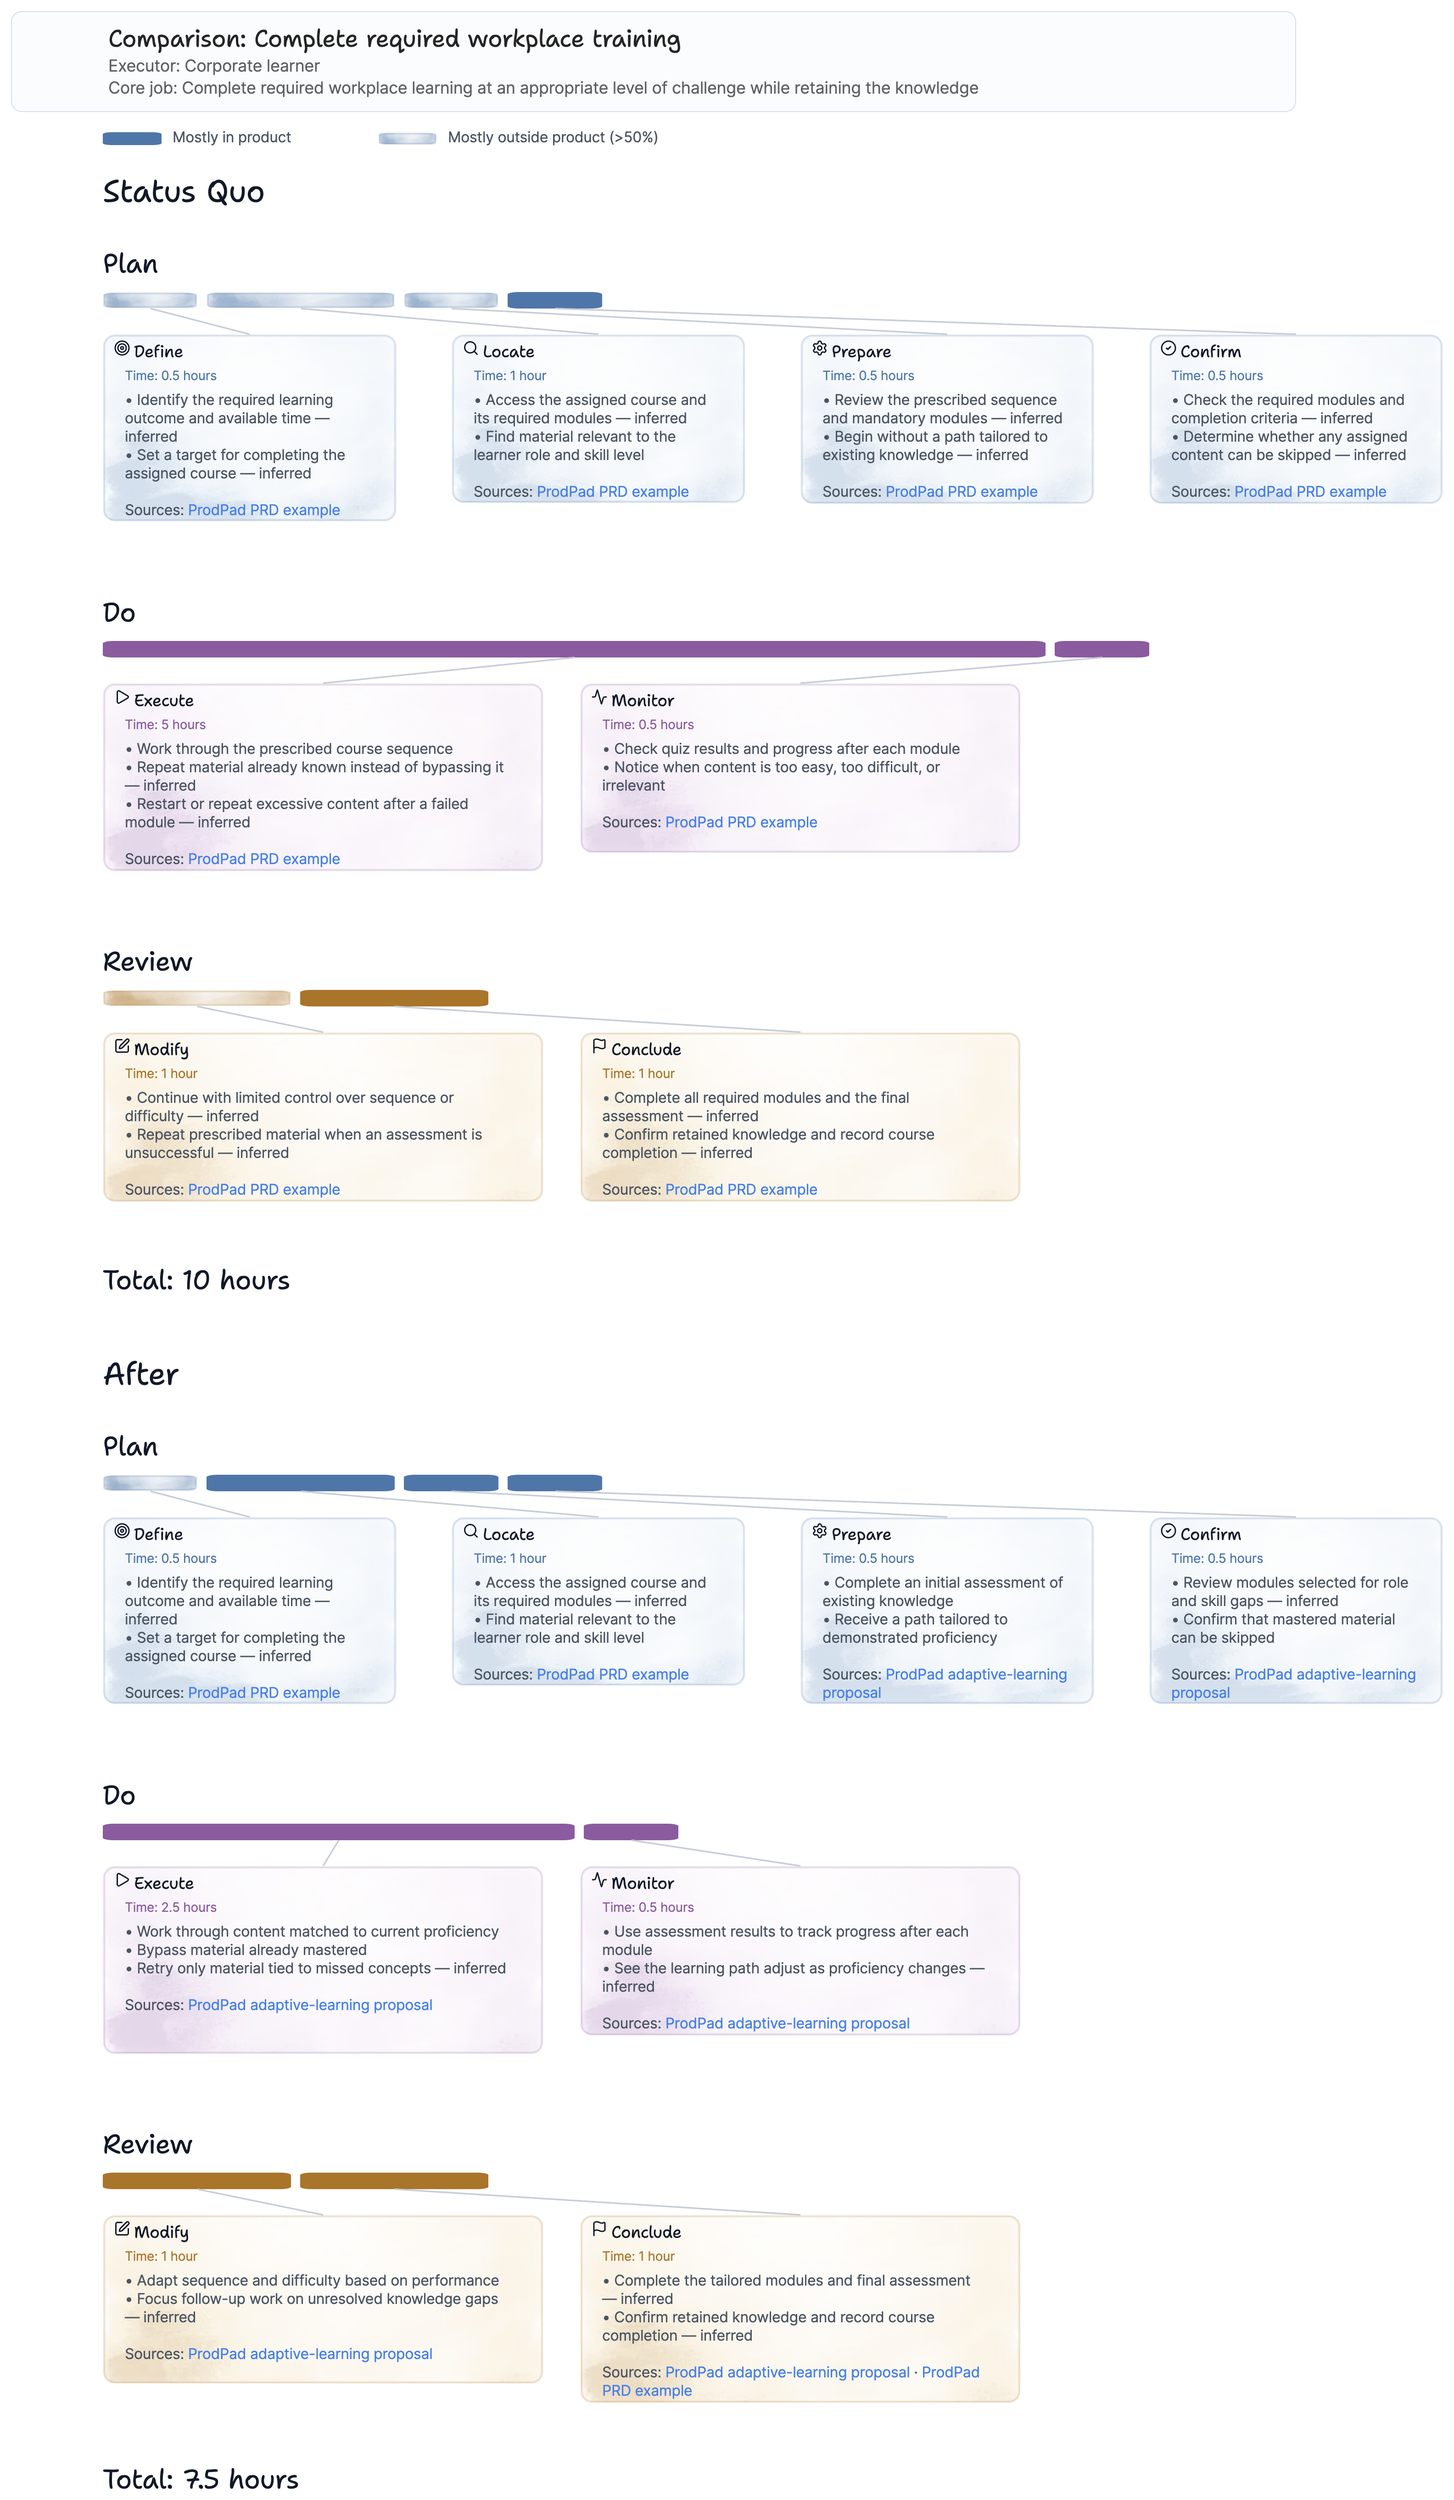
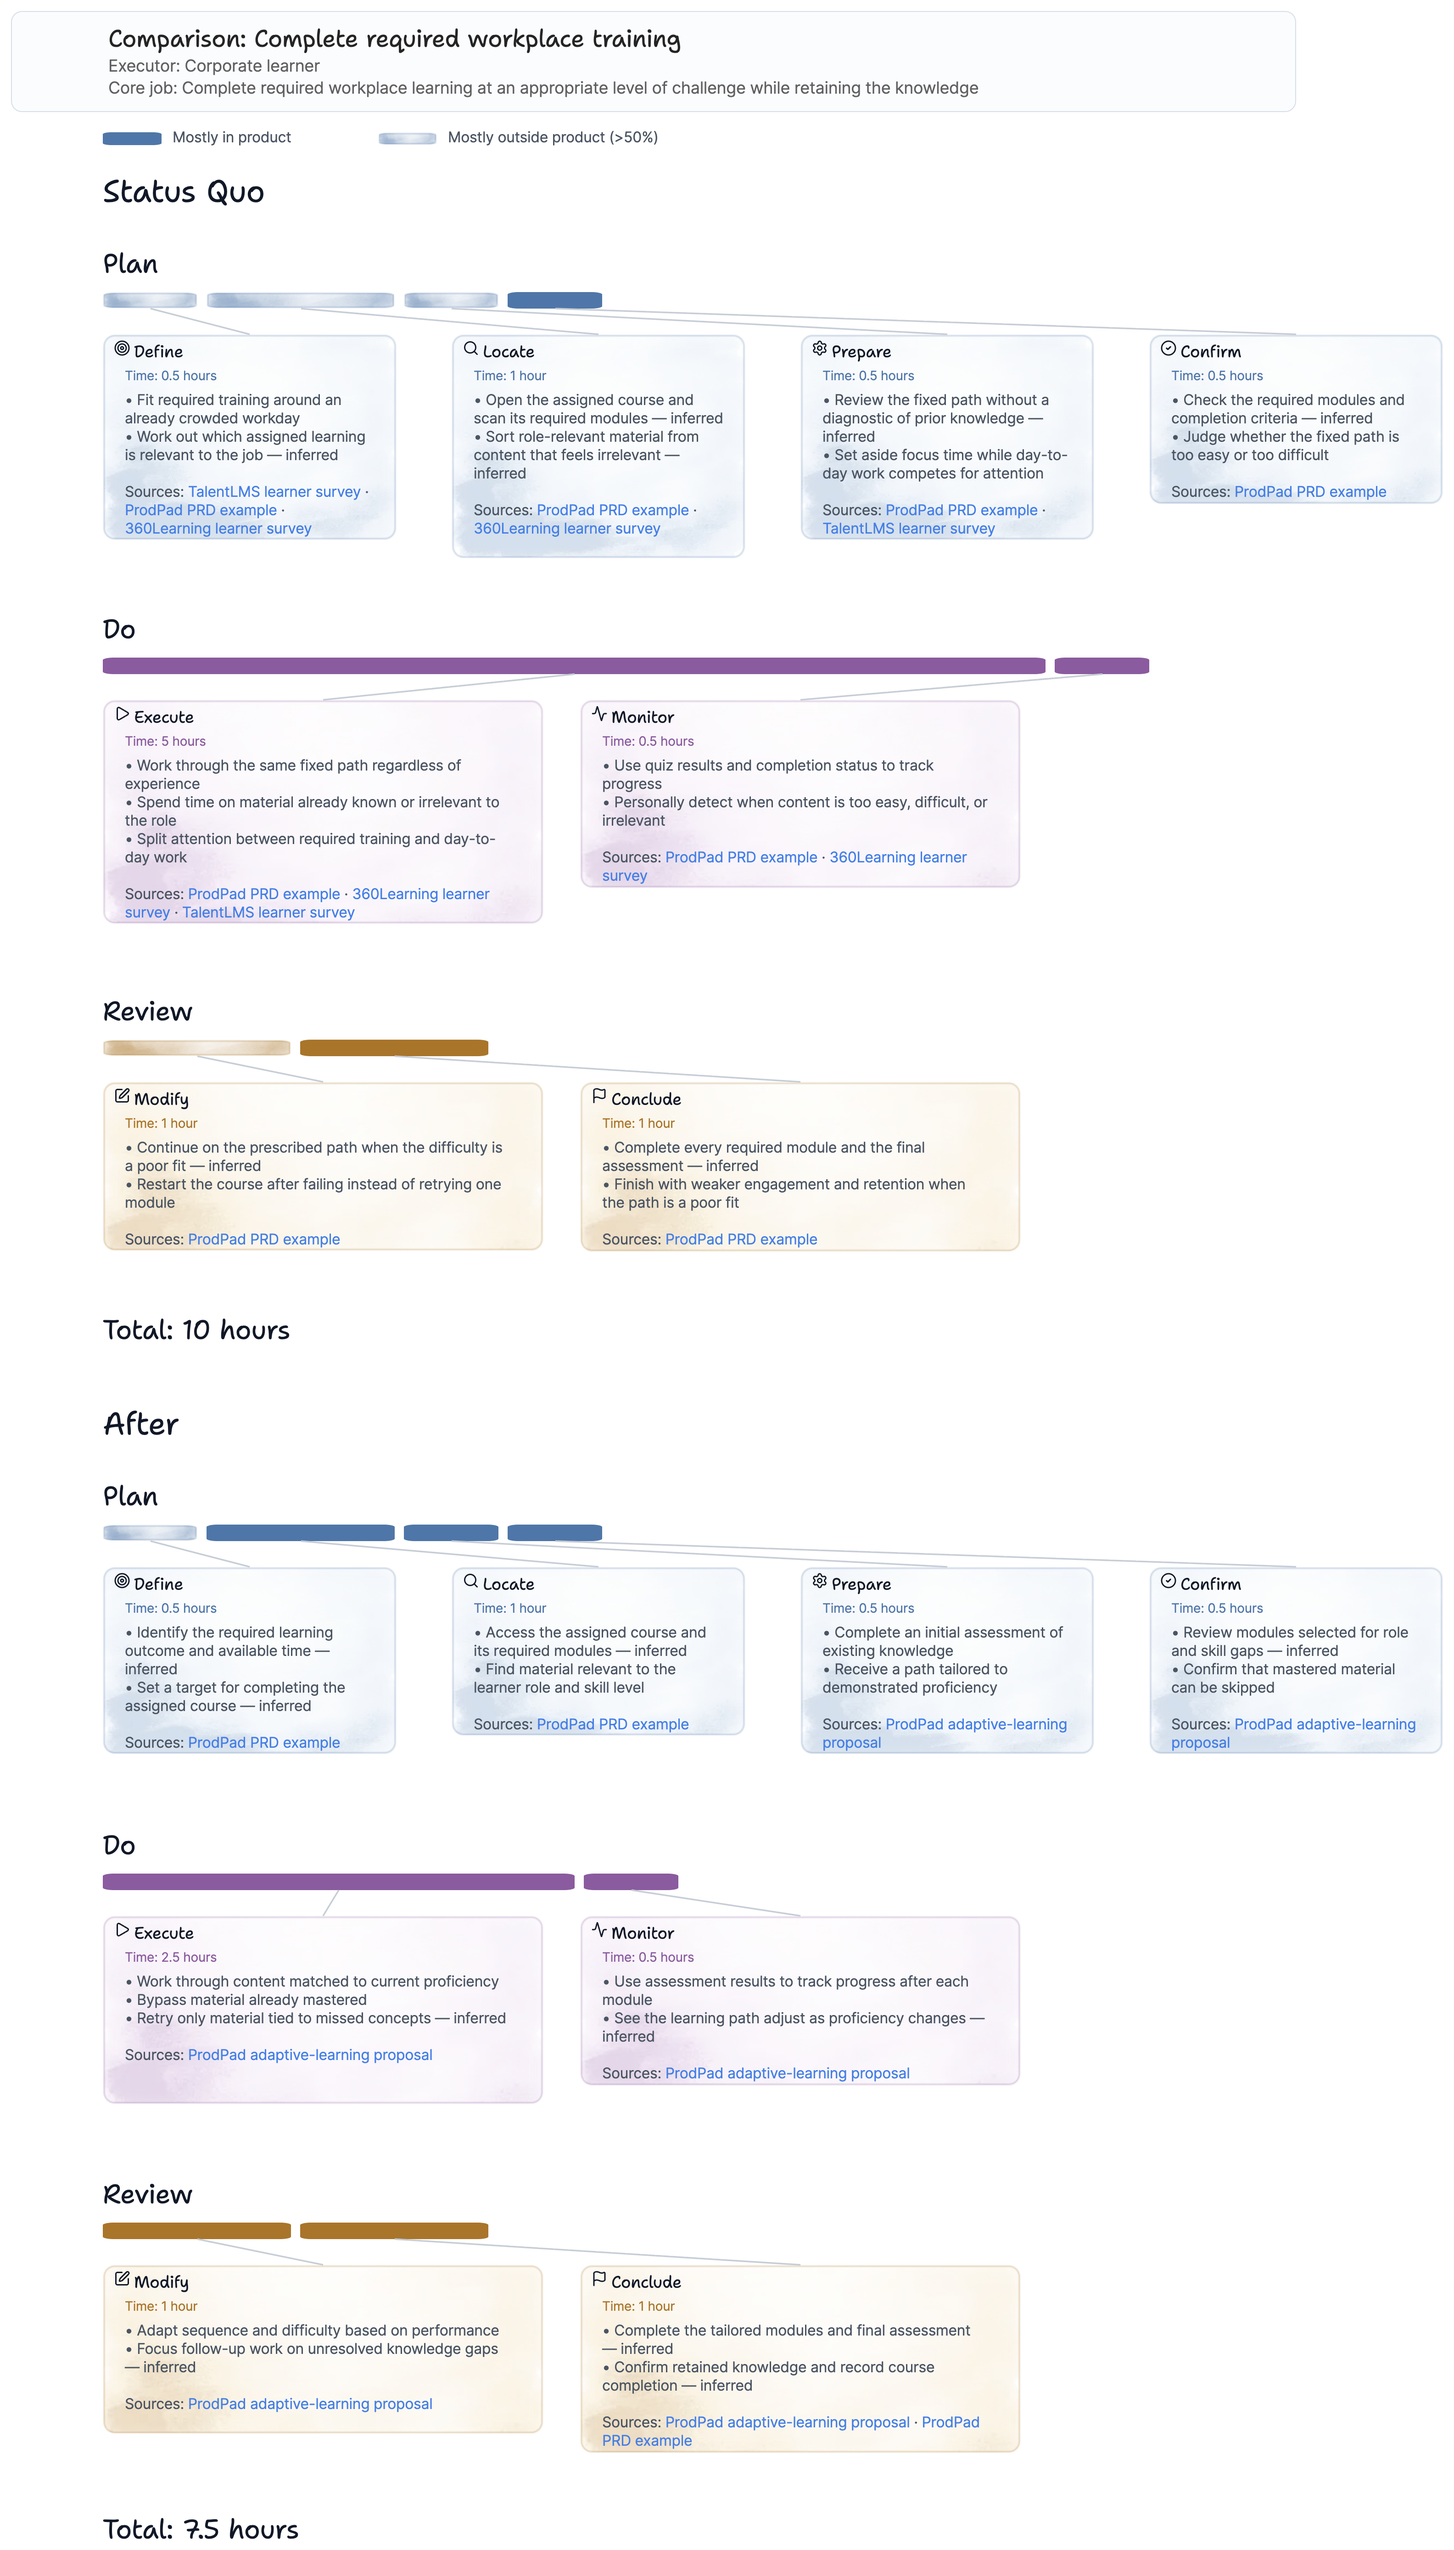
Improve status quo example evidence

diff --git a/README.md b/README.md
@@ -100,7 +100,7 @@ Funnel completion is calculated multiplicatively because each stage's drop-off a
 
 ## Example
 
-The included fixture is based on the adaptive-learning problem described in ProdPad's [PRD example](https://www.prodpad.com/blog/prd-example/). It compares a 10-hour Status Quo flow with a proposed After flow where Execute becomes 50% faster and the other stage durations remain unchanged. Its product-boundary percentages are illustrative assumptions added to demonstrate the plain and watercolor bar treatments; they are not claims made by the article.
+The included fixture begins with the fictional adaptive-learning problem in ProdPad's [PRD example](https://www.prodpad.com/blog/prd-example/). Its Status Quo map adds supporting workplace-learning evidence from [360Learning's survey of 600 U.S. employees](https://360learning.com/blog/best-practices-in-training-and-development/) and [TalentLMS's survey of 1,000 U.S. employees](https://www.talentlms.com/research/learning-development-report-2026). It compares a 10-hour Status Quo flow with a proposed After flow where Execute becomes 50% faster and the other stage durations remain unchanged. The stage durations and product-boundary percentages are illustrative assumptions added to demonstrate comparison scaling and the plain and watercolor bar treatments; they are not measurements reported by those sources.
 
 - [Input specification](skills/job-map-diagrams/examples/prodpad-adaptive-learning-spec.json)
 - [Editable Eraser JSON](skills/job-map-diagrams/examples/prodpad-adaptive-learning.json)
